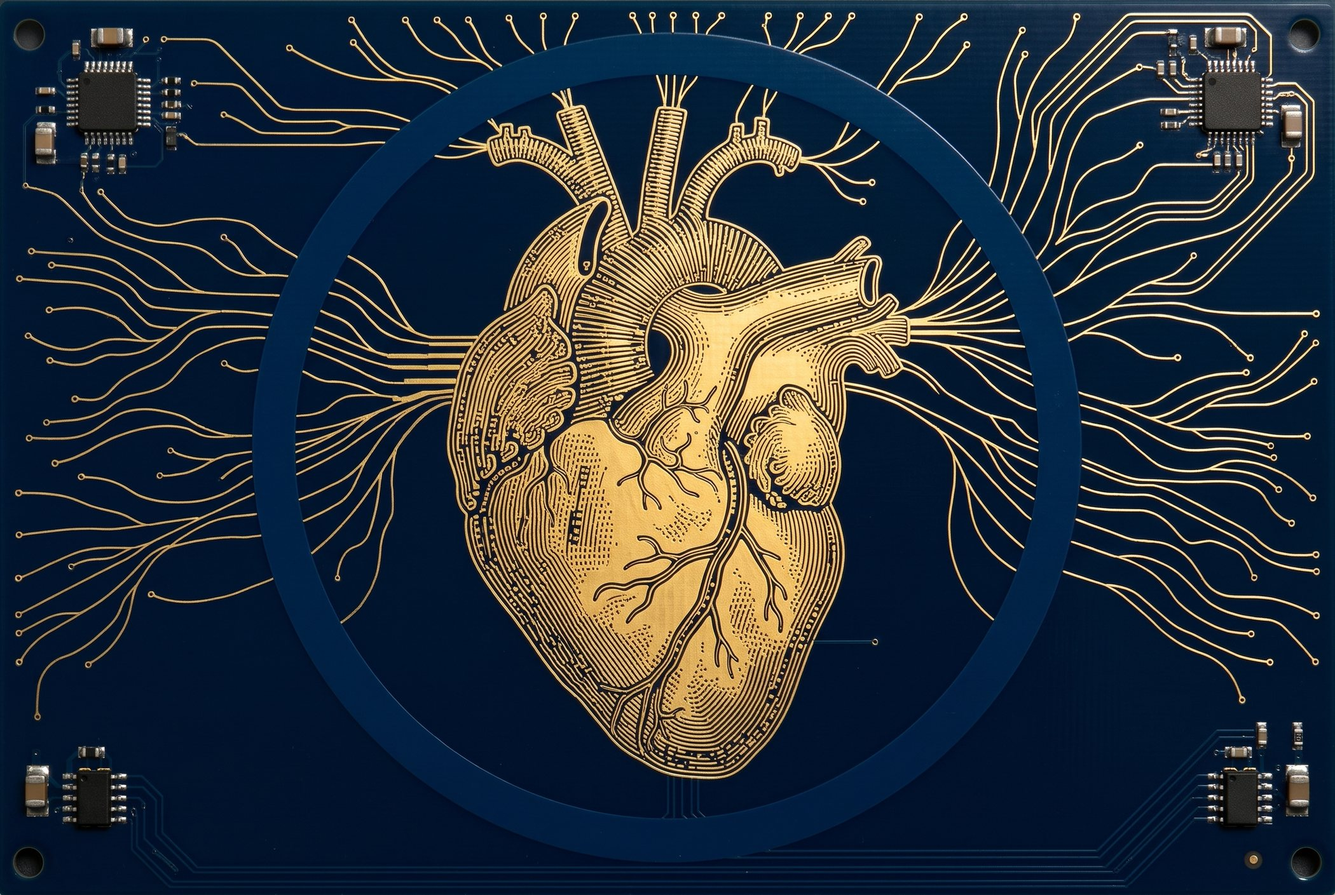
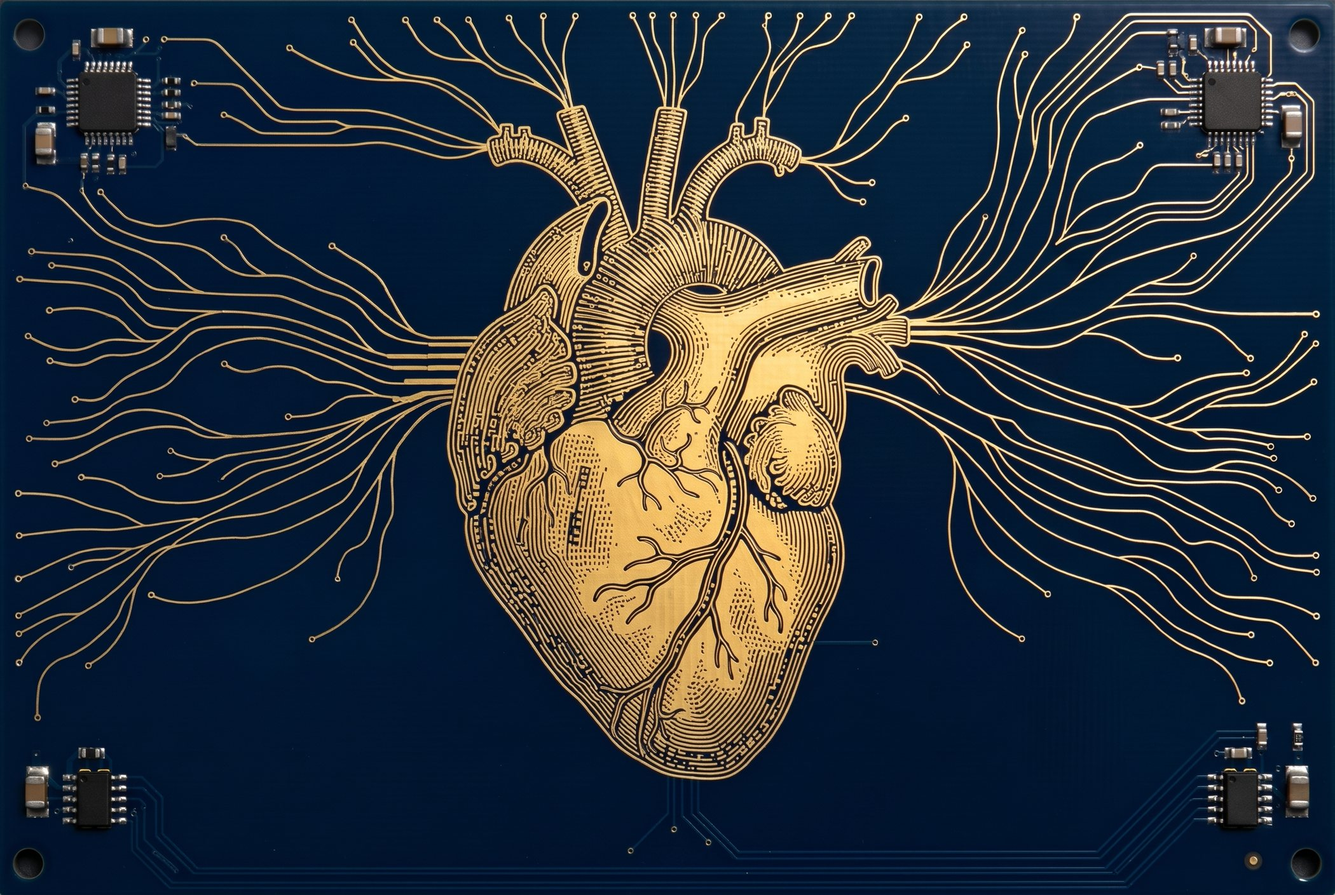
day-261118 링 없앤 기판, 패드를 실제 회로 위에 배치하고 빛도 패드에서 출발

diff --git a/day-261118/main.js b/day-261118/main.js
@@ -1,5 +1,5 @@
 import { unlock, play as sound, now } from './audio.js';
-import { buildCircuit, paintCircuit } from './circuit.js?v=4';
+import { buildCircuit, paintCircuit } from './circuit.js?v=6';
 
 const NOTES = [
   { k: '쿵', n: 'HB', f: 0, type: 'thump' },
@@ -24,7 +24,7 @@ const GOLD = '#e7c36a', SILK = '#e8eef4';
 const MONO = '"Share Tech Mono", monospace', KR = '"Noto Sans KR", sans-serif';
 
 const cv = document.getElementById('c'), ctx = cv.getContext('2d');
-const img = new Image(); img.src = 'board.jpg?v=1';
+const img = new Image(); img.src = 'board.jpg?v=2';
 const clamp = (v, a, b) => Math.max(a, Math.min(b, v));
 const ease = t => { t = clamp(t, 0, 1); return t * t * (3 - 2 * t); };
 
@@ -38,10 +38,10 @@ function layout() {
   const IW = img.naturalWidth || 2100, IH = img.naturalHeight || 1409;
   const k = Math.min(ah / IH, Math.max(W / IW, (W - 90) / (.872 * IH))), bw = IW * k, bh = IH * k, bx = (W - bw) / 2, by = top + (ah - bh) / 2;
   const cx = bx + bw * .5, cy = by + bh * .504, R = bh * .436;
-  const pads = NOTES.map((_, i) => { const a = -Math.PI / 2 + (i + .5) / NOTES.length * Math.PI * 2; return { a, x: cx + Math.cos(a) * R, y: cy + Math.sin(a) * R }; });
+  const pads = C ? C.pads.map(p => ({ a: p.a, d: p.d, x: bx + p.u * bw, y: by + p.v * bh })) : [];
   const x0 = W < 640 ? 22 : 40, x1 = W - (W < 640 ? 22 : 230), sy = H - strip, ly = sy + 50;
   const socks = Array.from({ length: SLOTS }, (_, i) => ({ x: x0 + (i + .5) / SLOTS * (x1 - x0), y: ly + 34 }));
-  L = { strip, bx, by, bw, bh, cx, cy, R, pads, x0, x1, sy, ly, socks, pr: clamp(R * .07, 9, 15) };
+  L = { strip, bx, by, bw, bh, cx, cy, R, pads, x0, x1, sy, ly, socks, pr: clamp(R * .05, 7, 11) };
 }
 
 function resize() {
@@ -56,7 +56,7 @@ function fire(ni, si) {
   waves.push({ kind: 'out', t: 0, dur: .8, gain: n.type === 'thump' ? 1.2 : .9 });
 }
 
-function inWave(ni) { waves.push({ kind: 'in', t: 0, dur: LEAD, ang: L.pads[ni].a, gain: 1 }); padLit[ni] = .6; }
+function inWave(ni) { waves.push({ kind: 'in', t: 0, dur: LEAD, ang: L.pads[ni].a, from: L.pads[ni].d, gain: 1 }); padLit[ni] = .6; }
 
 function addChip(ni) {
   unlock(); sound(NOTES[ni], now() + LEAD); inWave(ni); queue.push({ at: T + LEAD, ni, si: -1 });
@@ -104,7 +104,7 @@ function partName() {
 function frame(t) {
   const dt = Math.min(.05, (t - last) / 1000); last = t; T += dt;
   requestAnimationFrame(frame);
-  if (!L) return;
+  if (!L || !L.pads.length) return;
   if (run) {
     run.t += dt;
     const u = run.t / run.dur;
@@ -125,18 +125,10 @@ function frame(t) {
   ctx.fillStyle = '#03162f'; ctx.fillRect(0, 0, W, H);
   if (img.complete && img.naturalWidth) {
     ctx.drawImage(img, L.bx, L.by, L.bw, L.bh);
-    if (beat > .01) {
-      ctx.save();
-      ctx.beginPath(); ctx.arc(L.cx, L.cy, L.R * .9, 0, Math.PI * 2); ctx.clip();
-      ctx.translate(L.cx, L.cy); ctx.scale(1 + .045 * beat, 1 + .045 * beat); ctx.translate(-L.cx, -L.cy);
-      ctx.globalCompositeOperation = 'lighter'; ctx.globalAlpha = Math.min(1, .42 * beat);
-      ctx.drawImage(img, L.bx, L.by, L.bw, L.bh);
-      ctx.restore();
-    }
   }
 
-  if (C && waves.length) {
-    paintCircuit(C, waves, CASES[cs].col);
+  if (C && (waves.length || beat > .01)) {
+    paintCircuit(C, waves, CASES[cs].col, beat);
     ctx.save(); ctx.globalCompositeOperation = 'lighter';
     ctx.drawImage(C.oc, L.bx, L.by, L.bw, L.bh);
     ctx.globalAlpha = .5; ctx.drawImage(C.oc, L.bx - 1, L.by - 1, L.bw + 2, L.bh + 2);
@@ -149,7 +141,7 @@ function frame(t) {
     ctx.fillStyle = lit > .05 ? `rgb(${231 + 24 * lit},${195 + 50 * lit},${106 + 100 * lit})` : GOLD;
     ctx.beginPath(); ctx.arc(p.x, p.y, r, 0, Math.PI * 2); ctx.fill(); ctx.shadowBlur = 0;
     ctx.fillStyle = '#071c38'; ctx.beginPath(); ctx.arc(p.x, p.y, r * .42, 0, Math.PI * 2); ctx.fill();
-    const lx = L.cx + Math.cos(p.a) * (L.R + r + 22), lyy = L.cy + Math.sin(p.a) * (L.R + r + 22);
+    const lx = p.x + Math.cos(p.a) * (r + 22), lyy = p.y + Math.sin(p.a) * (r + 18);
     ctx.textAlign = 'center'; ctx.textBaseline = 'middle';
     ctx.fillStyle = SILK; ctx.font = `700 ${clamp(L.R * .075, 13, 19)}px ${KR}`; ctx.fillText(n.k, lx, lyy - 6);
     ctx.globalAlpha = .55; ctx.font = `${clamp(L.R * .042, 9, 11)}px ${MONO}`; ctx.fillText(`U${i + 1} ${n.n}`, lx, lyy + 10); ctx.globalAlpha = 1;
@@ -215,7 +207,7 @@ addEventListener('keydown', e => {
   else if (e.key >= '1' && e.key <= '8') addChip(+e.key - 1);
 });
 addEventListener('resize', resize);
-img.onload = () => { layout(); C = buildCircuit(img); };
-if (img.complete && img.naturalWidth) C = buildCircuit(img);
+img.onload = () => { C = buildCircuit(img); layout(); };
+if (img.complete && img.naturalWidth) { C = buildCircuit(img); layout(); }
 document.fonts.load(`700 16px ${KR}`, '쿵두근띠링딩톡뽕').finally(() => { resize(); });
 requestAnimationFrame(frame);

diff --git a/day-261118/circuit.js b/day-261118/circuit.js
@@ -1,3 +1,5 @@
+const PAD_ANG = [-58, -28, 2, 32, 148, 178, 208, 238];
+
 export function buildCircuit(img) {
   const MW = 720, MH = Math.round(img.naturalHeight / img.naturalWidth * MW), N = MW * MH;
   const oc = document.createElement('canvas'); oc.width = MW; oc.height = MH;
@@ -36,10 +38,17 @@ export function buildCircuit(img) {
   octx.clearRect(0, 0, MW, MH);
   const od = octx.createImageData(MW, MH);
   for (const i of idx) { od.data[i * 4] = 255; od.data[i * 4 + 1] = 236; od.data[i * 4 + 2] = 178; }
-  return { oc, octx, od, idx: Int32Array.from(idx), d: Float32Array.from(dd), ang: Float32Array.from(ang), maxD, Dring };
+  const pads = PAD_ANG.map(deg => {
+    const a = deg * Math.PI / 180, tx = cx + Math.cos(a) * MH * .4, ty = cy + Math.sin(a) * MH * .4;
+    let best = -1, bd = 1e9;
+    for (let k = 0; k < idx.length; k++) { const i = idx[k], dx = i % MW - tx, dy = ((i / MW) | 0) - ty, e = dx * dx + dy * dy; if (e < bd) { bd = e; best = k; } }
+    const i = idx[best];
+    return { u: (i % MW) / MW, v: ((i / MW) | 0) / MH, a: ang[best], d: dd[best] };
+  });
+  return { oc, octx, od, idx: Int32Array.from(idx), d: Float32Array.from(dd), ang: Float32Array.from(ang), maxD, pads };
 }
 
-export function paintCircuit(C, waves, col) {
+export function paintCircuit(C, waves, col, beat = 0) {
   const { idx, d, ang, od, maxD } = C, data = od.data;
   if (C.col !== col) { C.col = col; for (const i of idx) { data[i * 4] = col[0]; data[i * 4 + 1] = col[1]; data[i * 4 + 2] = col[2]; } }
   for (let k = 0; k < idx.length; k++) {
@@ -50,13 +59,14 @@ export function paintCircuit(C, waves, col) {
       if (w.kind === 'in') {
         let da = ang[k] - w.ang; da = Math.abs(Math.atan2(Math.sin(da), Math.cos(da)));
         if (da > .62) continue;
-        const front = maxD * (1 - u);
+        const front = w.from * (1 - u);
         I += Math.exp(-(((dk - front) / 9) ** 2)) * (1 - da / .62) * w.gain;
       } else {
         const front = u * maxD * 1.05, x = (dk - front) / 12;
         I += (Math.exp(-x * x) + (dk < front ? .22 * Math.exp(-(front - dk) / 55) : 0)) * Math.pow(1 - u, .6) * w.gain;
       }
     }
+    if (beat > .01 && dk < 150) I += beat * .3 * (1 - dk / 300);
     data[idx[k] * 4 + 3] = I > 1 ? 255 : I * 255;
   }
   C.octx.putImageData(od, 0, 0);

diff --git a/day-261118/index.html b/day-261118/index.html
@@ -28,6 +28,6 @@
 <header id="top"><span>두근 회로 · HB-NOTIFIER REV.1</span><a href="../index.html">← INDEX</a></header>
 <nav id="sel"><div id="cases"></div><div id="cdesc"></div></nav>
 <div id="ctl"><button id="play">▶ PLAY</button><button id="clear">CLEAR</button></div>
-<script type="module" src="main.js?v=6"></script>
+<script type="module" src="main.js?v=8"></script>
 </body>
 </html>
